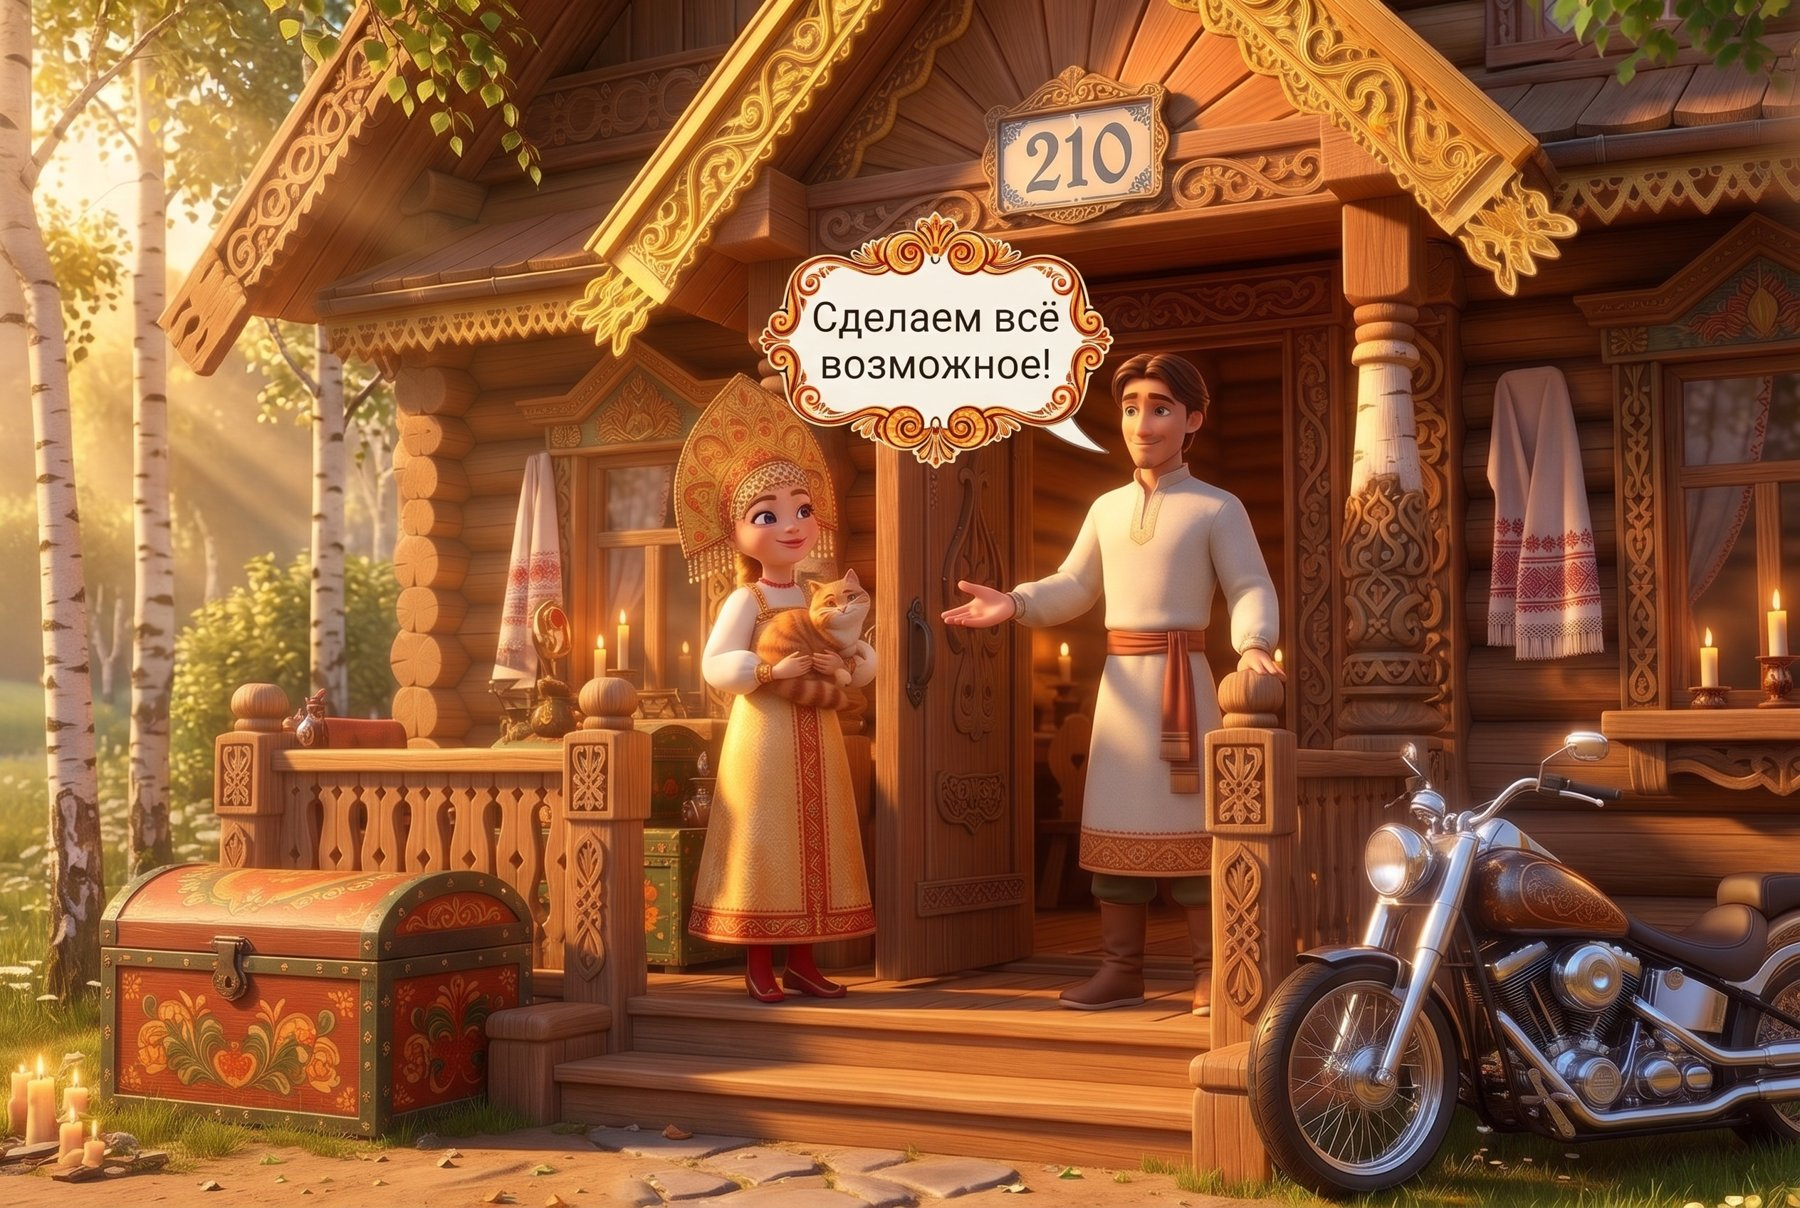
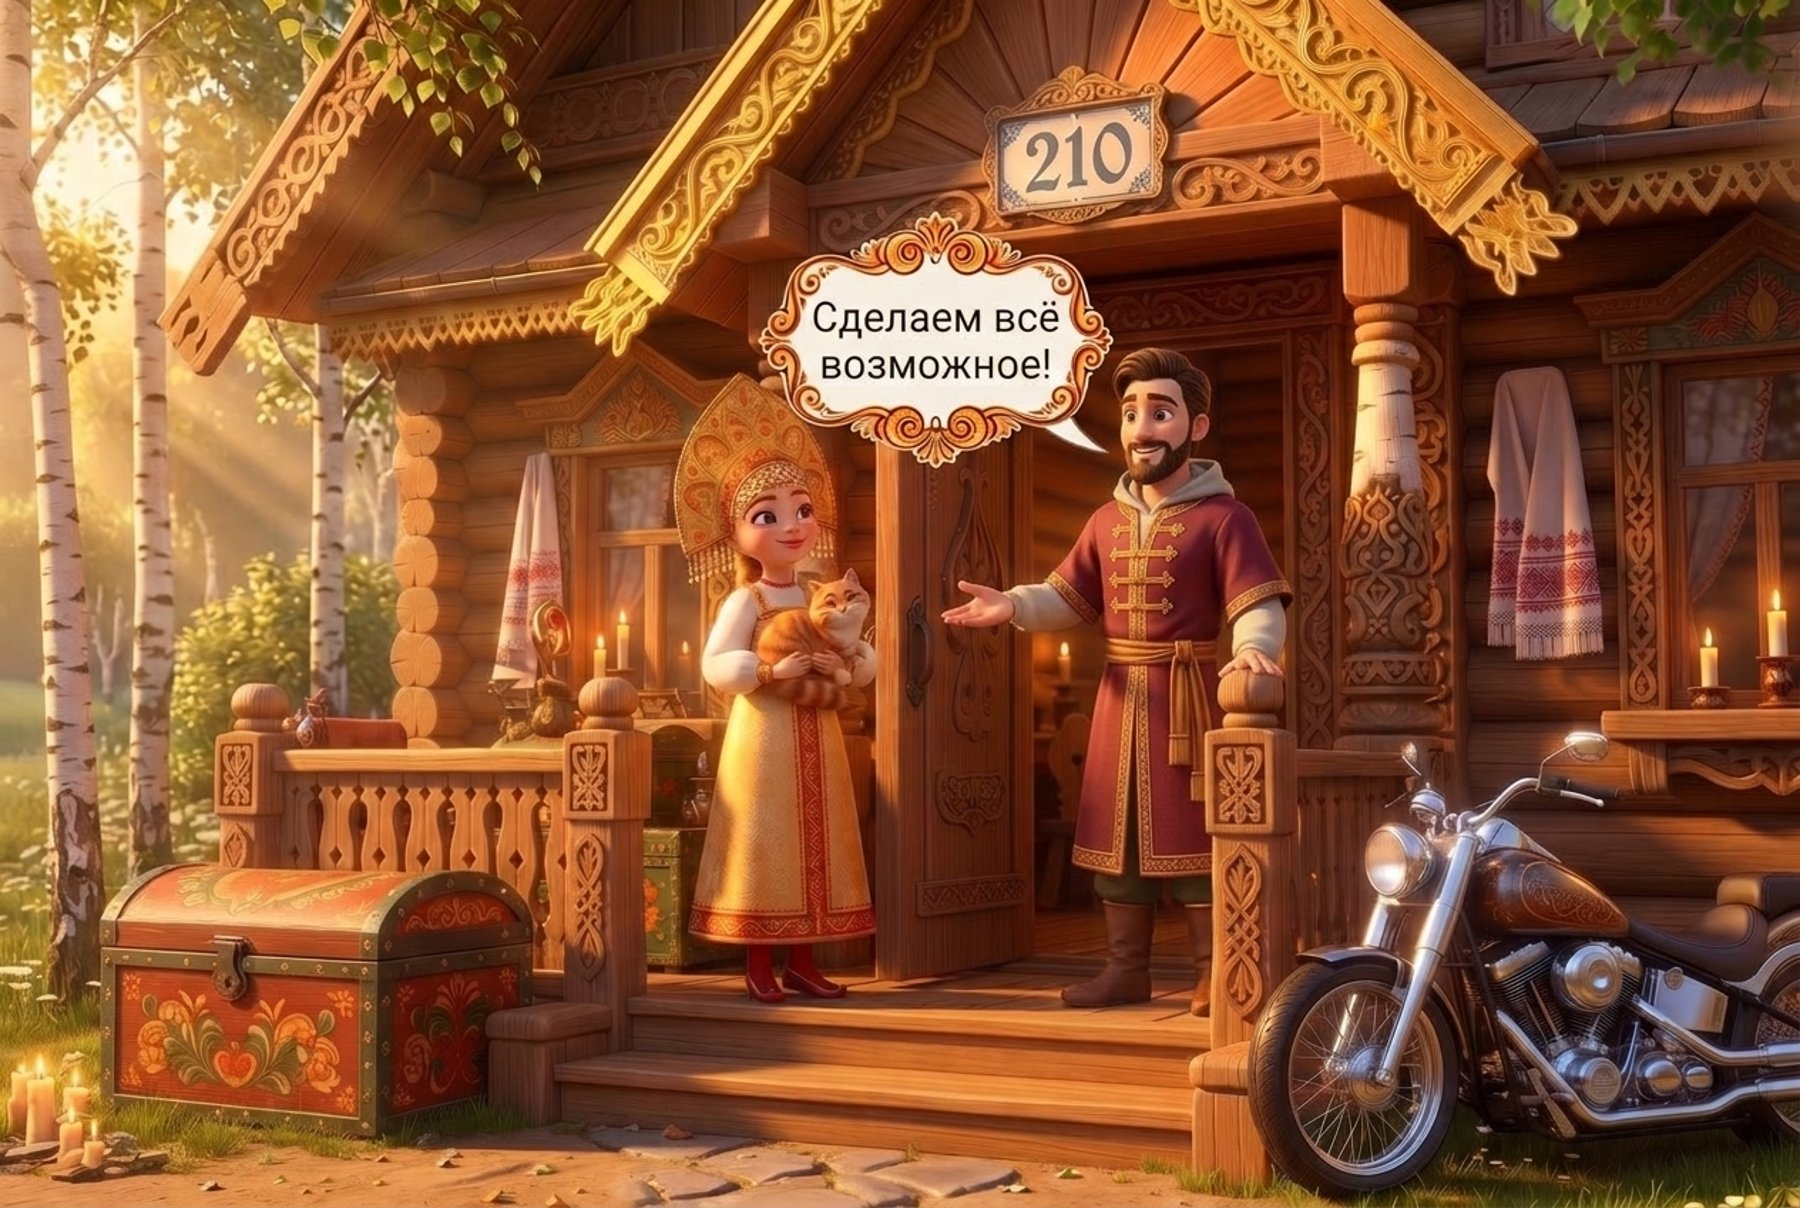
Превью: tender-pech-chistovik

diff --git a/tender-pech-chistovik/index.html b/tender-pech-chistovik/index.html
@@ -2,4 +2,4 @@
 <style>body{margin:0;background:#f6f1e7;font-family:system-ui,sans-serif;color:#222}h1{font-size:28px;margin:24px 16px 4px}p{margin:0 16px 20px;font-size:18px}
 main{display:grid;gap:28px;padding:0 16px 40px;max-width:1400px;margin:auto}figure{margin:0}img{width:100%;border-radius:12px;display:block}
 figcaption{font-size:24px;margin-top:8px}b{display:inline-block;background:#222;color:#fff;border-radius:50%;width:36px;height:36px;text-align:center;line-height:36px;margin-right:8px}</style></head>
-<body><h1>Тендер-печь: чистовая раскадровка</h1><p>Тёплый 3D, фирменная печь. Версия 5: облачка везде в русском стиле, в кадре 8 спрашивает Маша, мудрец 206 в очках с кубком ИКЭМ, мудрец 210 без усов, один мотоцикл у избы 210 во всех кадрах. Новое: неудачные дубли и титры с портретами (16-20). Правки пиши по номерам кадров.</p><main><figure><img src="c01-galaktika.jpg?v=2" loading="lazy"><figcaption><b>1</b> Галактика</figcaption></figure><figure><img src="c02-moskva.jpg?v=2" loading="lazy"><figcaption><b>2</b> Полёт к Москве</figcaption></figure><figure><img src="c03-terem.jpg?v=2" loading="lazy"><figcaption><b>3</b> Терем «Тендерный отдел»</figcaption></figure><figure><img src="c04-tron.jpg?v=2" loading="lazy"><figcaption><b>4</b> Мария Прекрасная на троне</figcaption></figure><figure><img src="c04b-gde-smety.jpg?v=5" loading="lazy"><figcaption><b>5</b> «Где сметы?!»</figcaption></figure><figure><img src="c05-orda.jpg?v=5" loading="lazy"><figcaption><b>6</b> Орда менеджеров</figcaption></figure><figure><img src="c06-ploshchadki.jpg?v=2" loading="lazy"><figcaption><b>7</b> Площадки, тендеры уходят</figcaption></figure><figure><img src="c07-skoro.jpg?v=5" loading="lazy"><figcaption><b>8</b> «Скоро будет»</figcaption></figure><figure><img src="c08-mimo206.jpg?v=7" loading="lazy"><figcaption><b>9</b> Изба 206: «Добавим Jarvis!»</figcaption></figure><figure><img src="c09-izba208.jpg?v=7" loading="lazy"><figcaption><b>10</b> Изба 208</figcaption></figure><figure><img src="c10-izba210.jpg?v=7" loading="lazy"><figcaption><b>11</b> Изба 210</figcaption></figure><figure><img src="c11-chudo.jpg?v=2" loading="lazy"><figcaption><b>12</b> Появление печи</figcaption></figure><figure><img src="c12-pechet.jpg?v=2" loading="lazy"><figcaption><b>13</b> Печь печёт сметы</figcaption></figure><figure><img src="c13-rabota.jpg?v=3" loading="lazy"><figcaption><b>14</b> Работа за 15 минут</figcaption></figure><figure><img src="c14-final.jpg?v=5" loading="lazy"><figcaption><b>15</b> Финал: победа в тендере</figcaption></figure><figure><img src="d01-dubl-kot.jpg?v=6" loading="lazy"><figcaption><b>16</b> Неудачный дубль: кот «Может, ИИ Кэмп?», Маша «Ой, не ИИ мне мозг!»</figcaption></figure><figure><img src="d02-dubl-kod.jpg?v=6" loading="lazy"><figcaption><b>17</b> Неудачный дубль: «Маш, можешь ИИ Кэмп?» … «Всё, не ИИ мне мозг!»</figcaption></figure><figure><img src="t1-varlamova.jpg?v=1" loading="lazy"><figcaption><b>18</b> Титры: Автор идеи и наставник: Мария Варламова</figcaption></figure><figure><img src="t2-zhuravlev.jpg?v=1" loading="lazy"><figcaption><b>19</b> Титры: Автор идеи: Станислав Журавлёв</figcaption></figure><figure><img src="t3-lesnyh.jpg?v=1" loading="lazy"><figcaption><b>20</b> Титры: Автор идеи, исполнитель и реализация: Мария Лесных</figcaption></figure></main></body></html>
+<body><h1>Тендер-печь: чистовая раскадровка</h1><p>Тёплый 3D, фирменная печь. Версия 5: облачка везде в русском стиле, в кадре 8 спрашивает Маша, мудрец 206 в очках с кубком ИКЭМ, мудрец 210 без усов, один мотоцикл у избы 210 во всех кадрах. Новое: неудачные дубли и титры с портретами (16-20). Правки пиши по номерам кадров.</p><main><figure><img src="c01-galaktika.jpg?v=2" loading="lazy"><figcaption><b>1</b> Галактика</figcaption></figure><figure><img src="c02-moskva.jpg?v=2" loading="lazy"><figcaption><b>2</b> Полёт к Москве</figcaption></figure><figure><img src="c03-terem.jpg?v=2" loading="lazy"><figcaption><b>3</b> Терем «Тендерный отдел»</figcaption></figure><figure><img src="c04-tron.jpg?v=2" loading="lazy"><figcaption><b>4</b> Мария Прекрасная на троне</figcaption></figure><figure><img src="c04b-gde-smety.jpg?v=5" loading="lazy"><figcaption><b>5</b> «Где сметы?!»</figcaption></figure><figure><img src="c05-orda.jpg?v=5" loading="lazy"><figcaption><b>6</b> Орда менеджеров</figcaption></figure><figure><img src="c06-ploshchadki.jpg?v=2" loading="lazy"><figcaption><b>7</b> Площадки, тендеры уходят</figcaption></figure><figure><img src="c07-skoro.jpg?v=5" loading="lazy"><figcaption><b>8</b> «Скоро будет»</figcaption></figure><figure><img src="c08-mimo206.jpg?v=7" loading="lazy"><figcaption><b>9</b> Изба 206: «Добавим Jarvis!»</figcaption></figure><figure><img src="c09-izba208.jpg?v=7" loading="lazy"><figcaption><b>10</b> Изба 208</figcaption></figure><figure><img src="c10-izba210.jpg?v=8" loading="lazy"><figcaption><b>11</b> Изба 210</figcaption></figure><figure><img src="c11-chudo.jpg?v=2" loading="lazy"><figcaption><b>12</b> Появление печи</figcaption></figure><figure><img src="c12-pechet.jpg?v=2" loading="lazy"><figcaption><b>13</b> Печь печёт сметы</figcaption></figure><figure><img src="c13-rabota.jpg?v=3" loading="lazy"><figcaption><b>14</b> Работа за 15 минут</figcaption></figure><figure><img src="c14-final.jpg?v=5" loading="lazy"><figcaption><b>15</b> Финал: победа в тендере</figcaption></figure><figure><img src="d01-dubl-kot.jpg?v=6" loading="lazy"><figcaption><b>16</b> Неудачный дубль: кот «Может, ИИ Кэмп?», Маша «Ой, не ИИ мне мозг!»</figcaption></figure><figure><img src="d02-dubl-kod.jpg?v=6" loading="lazy"><figcaption><b>17</b> Неудачный дубль: «Маш, можешь ИИ Кэмп?» … «Всё, не ИИ мне мозг!»</figcaption></figure><figure><img src="t1-varlamova.jpg?v=1" loading="lazy"><figcaption><b>18</b> Титры: Автор идеи и наставник: Мария Варламова</figcaption></figure><figure><img src="t2-zhuravlev.jpg?v=1" loading="lazy"><figcaption><b>19</b> Титры: Автор идеи: Станислав Журавлёв</figcaption></figure><figure><img src="t3-lesnyh.jpg?v=1" loading="lazy"><figcaption><b>20</b> Титры: Автор идеи, исполнитель и реализация: Мария Лесных</figcaption></figure></main></body></html>
